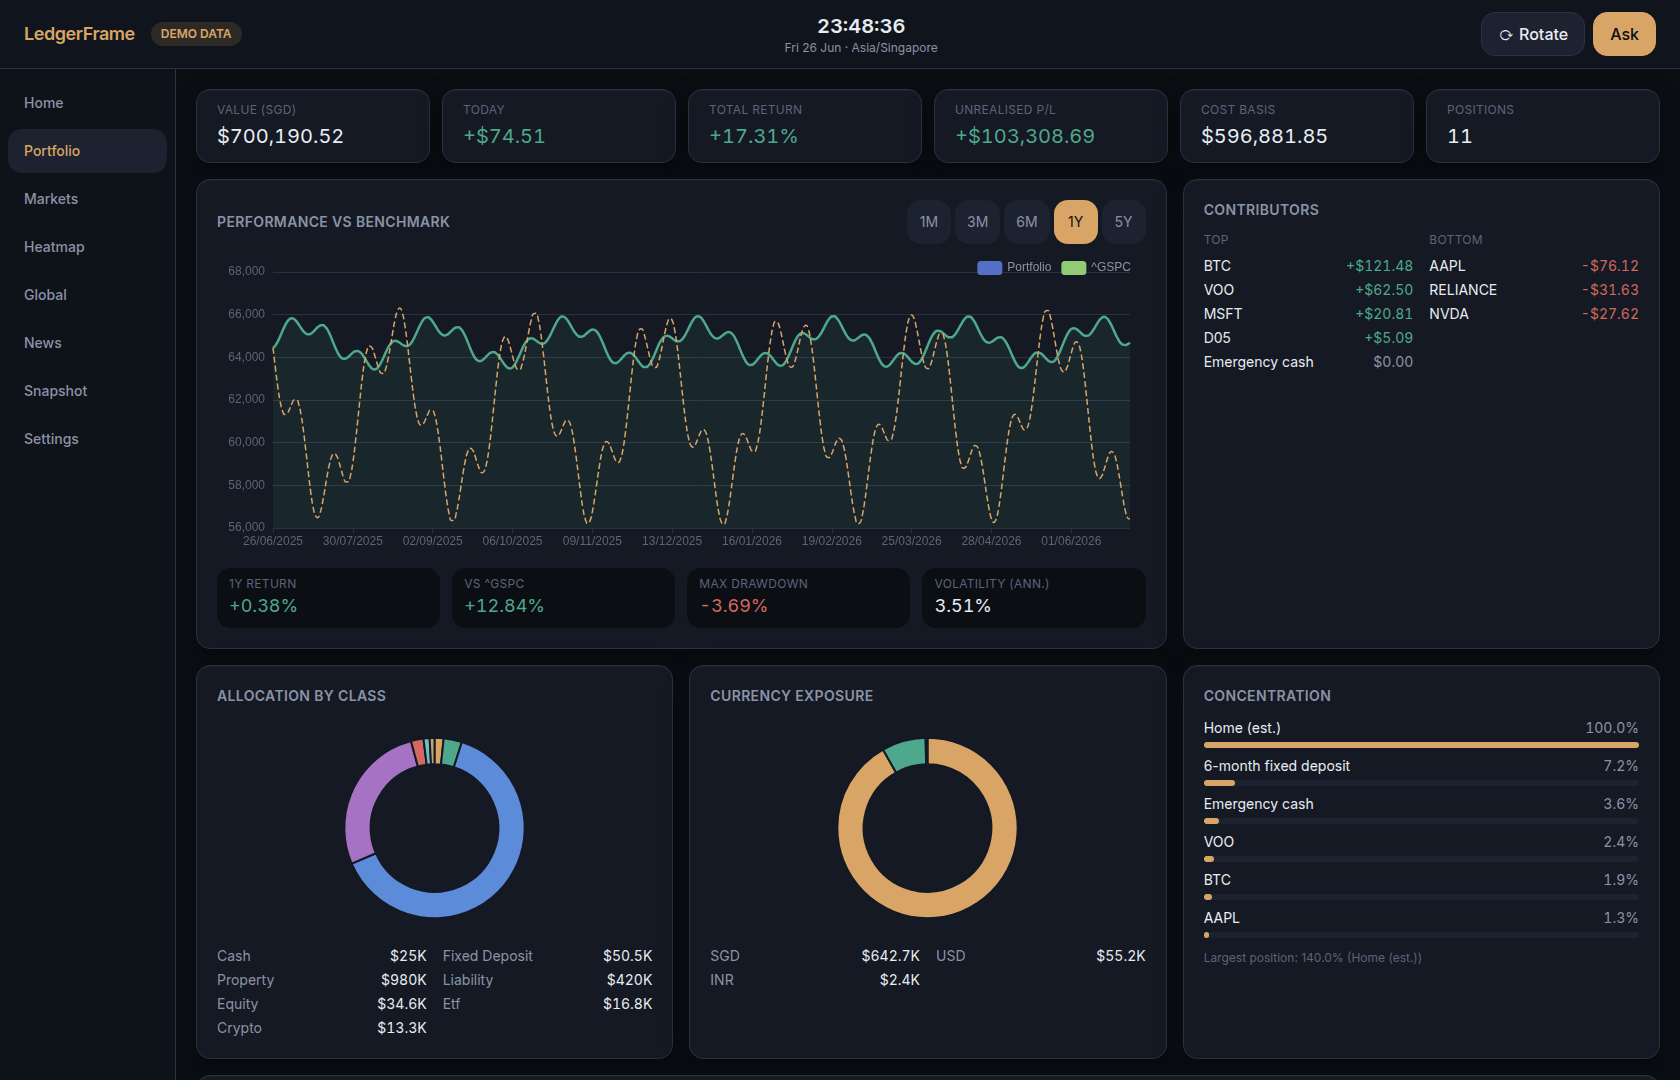
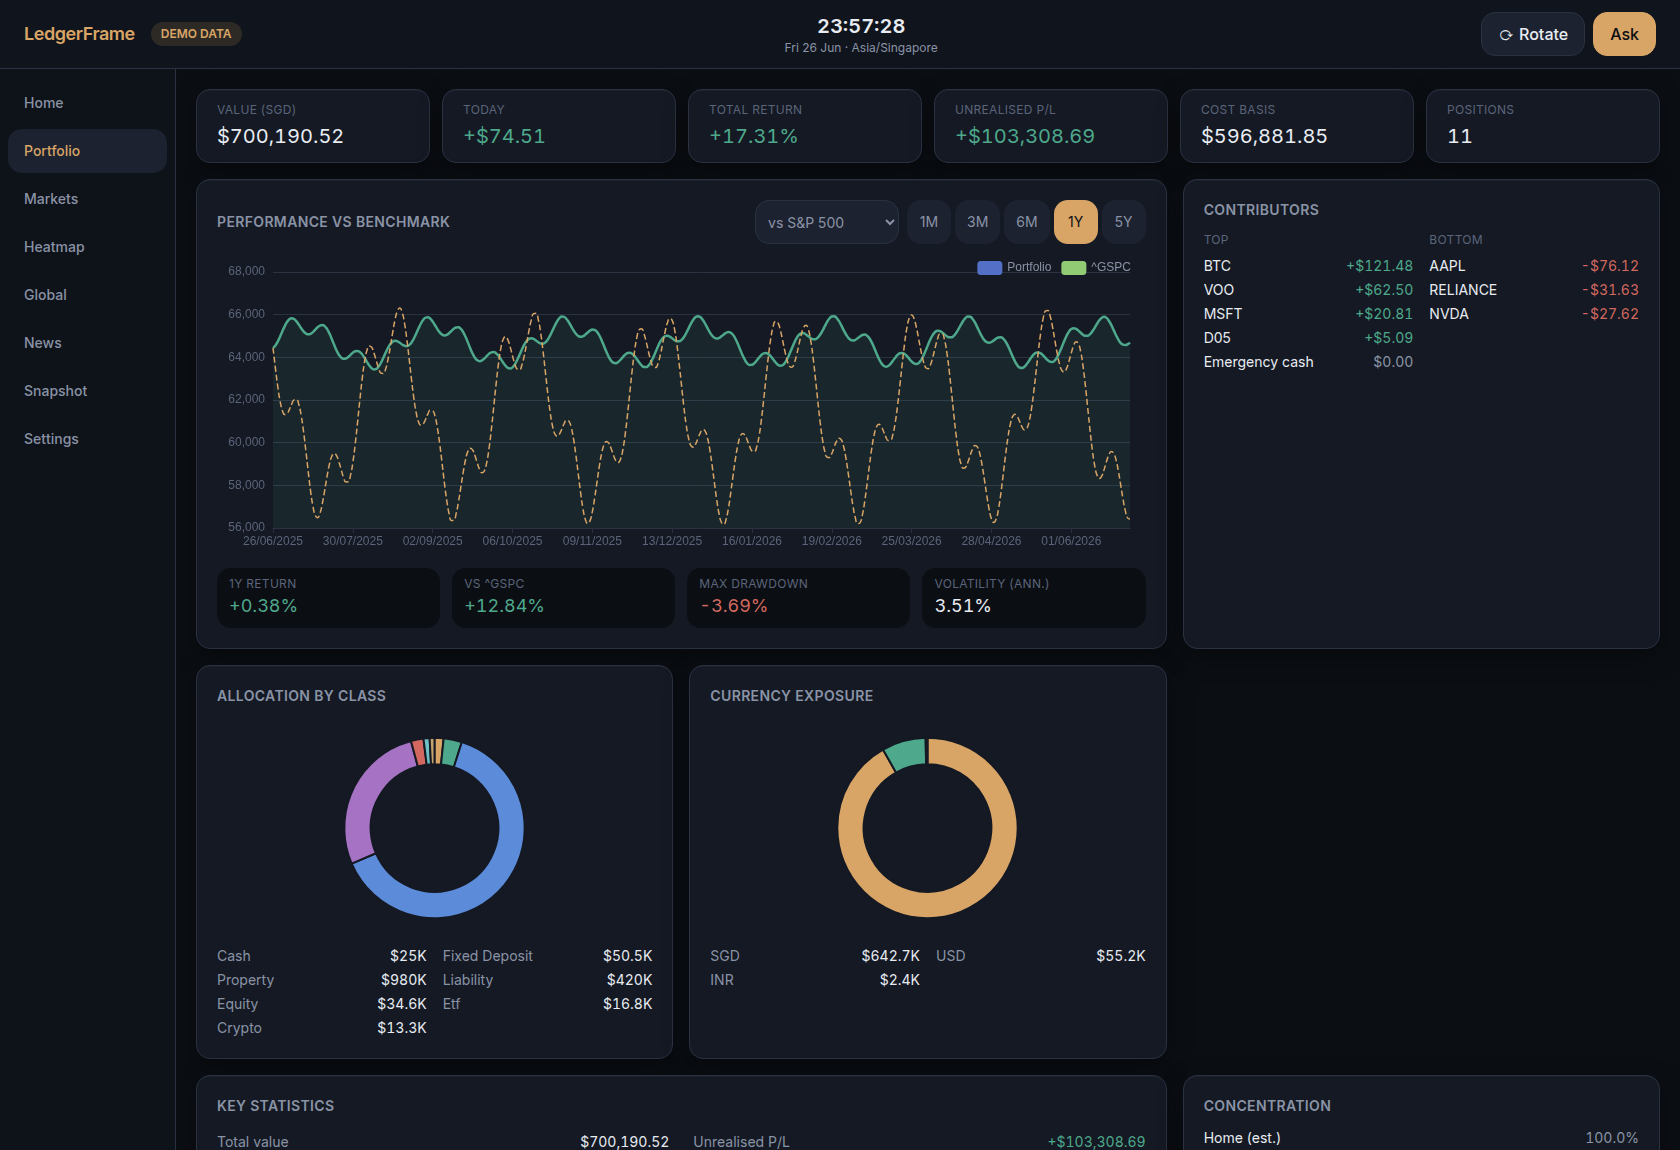
feat: benchmark picker + key-stats panel
- PerformancePanel gains a benchmark dropdown (S&P 500 / STI / VOO / World / Gold /
  Bitcoin); /portfolio/benchmarks lists them, /portfolio/performance honours it.
- New /portfolio/stats computes deterministic key metrics: realised P/L + income
  (from the ledger), income yield, total/1Y return, 1Y volatility, return/vol ratio,
  max drawdown, asset-class weights, and concentration (gross-asset denominator so
  values stay <=100%). No fabricated Sharpe/duration.
- KeyStatsPanel added to Home (via existing cards) and Portfolio.
- Tests for benchmarks/stats + gross-denominator concentration. 60 passing.

diff --git a/frontend/src/components/KeyStatsPanel.tsx b/frontend/src/components/KeyStatsPanel.tsx
@@ -1,0 +1,40 @@
+import { api } from "../lib/api";
+import { useApi } from "../hooks/useApi";
+import { Card } from "./ui";
+import { money, pct, signedMoney, toneClass } from "../lib/format";
+
+// Deterministic portfolio metrics (returns, income, risk, allocation weights,
+// concentration). Values are computed server-side; this only formats them.
+export function KeyStatsPanel({ className = "" }: { className?: string }) {
+  const { data } = useApi(api.stats, 60000);
+  const ccy = data?.base_currency ?? "SGD";
+
+  function fmt(m: { value: number | null; kind: string; signed?: boolean }): string {
+    if (m.value === null || m.value === undefined) return "—";
+    if (m.kind === "money") return m.signed ? signedMoney(m.value, ccy) : money(m.value, ccy);
+    if (m.kind === "pct") return m.signed ? pct(m.value) : `${m.value}%`;
+    if (m.kind === "ratio") return m.value.toFixed(2);
+    return String(m.value);
+  }
+  function tone(m: { value: number | null; signed?: boolean }): string {
+    return m.signed && m.value !== null ? toneClass(m.value) : "text-ink";
+  }
+
+  return (
+    <Card title="Key statistics" className={className}>
+      <dl className="grid grid-cols-2 gap-x-6 gap-y-2 text-sm">
+        {(data?.metrics ?? []).map((m) => (
+          <div key={m.label} className="flex justify-between border-b border-line/40 py-1">
+            <dt className="text-muted truncate mr-2" title={m.note ?? undefined}>{m.label}</dt>
+            <dd className={`tnum text-right ${tone(m)}`}>{fmt(m)}</dd>
+          </div>
+        ))}
+        {!data && <p className="text-muted col-span-2">Loading…</p>}
+      </dl>
+      <p className="text-xs text-faint mt-2">
+        Computed from your data. Weights/concentration use gross assets. No fabricated
+        Sharpe/duration — "return/volatility" is shown instead.
+      </p>
+    </Card>
+  );
+}

diff --git a/frontend/src/components/PerformancePanel.tsx b/frontend/src/components/PerformancePanel.tsx
@@ -17,7 +17,9 @@ const PERIODS = [
 // selector and a row of computed stats (return, vs-benchmark, drawdown, volatility).
 export function PerformancePanel({ height = 300, className = "" }: { height?: number; className?: string }) {
   const [p, setP] = useState(3); // 1Y
-  const perf = useApi(() => api.performance(PERIODS[p].days), 0, [p]);
+  const [benchmark, setBenchmark] = useState("^GSPC");
+  const benches = useApi(api.benchmarks, 0);
+  const perf = useApi(() => api.performance(PERIODS[p].days, benchmark), 0, [p, benchmark]);
   const d = perf.data;
   const stats = d?.stats;
 
@@ -26,16 +28,28 @@ export function PerformancePanel({ height = 300, className = "" }: { height?: nu
       title="Performance vs benchmark"
       className={className}
       action={
-        <div className="flex gap-1">
-          {PERIODS.map((per, i) => (
-            <button
-              key={per.label}
-              className={`touch px-3 py-1 rounded-card text-sm ${i === p ? "bg-accent text-base" : "bg-elevated text-muted hover:text-ink"}`}
-              onClick={() => setP(i)}
-            >
-              {per.label}
-            </button>
-          ))}
+        <div className="flex items-center gap-2">
+          <select
+            className="touch rounded-card bg-elevated border border-line text-sm px-2 text-muted"
+            value={benchmark}
+            onChange={(e) => setBenchmark(e.target.value)}
+            title="Benchmark"
+          >
+            {(benches.data?.benchmarks ?? [{ symbol: "^GSPC", label: "S&P 500" }]).map((b) => (
+              <option key={b.symbol} value={b.symbol}>vs {b.label}</option>
+            ))}
+          </select>
+          <div className="flex gap-1">
+            {PERIODS.map((per, i) => (
+              <button
+                key={per.label}
+                className={`touch px-3 py-1 rounded-card text-sm ${i === p ? "bg-accent text-base" : "bg-elevated text-muted hover:text-ink"}`}
+                onClick={() => setP(i)}
+              >
+                {per.label}
+              </button>
+            ))}
+          </div>
         </div>
       }
     >

diff --git a/frontend/src/lib/api.ts b/frontend/src/lib/api.ts
@@ -45,6 +45,11 @@ export const api = {
         worst_day_pct: number; start_value: number; end_value: number;
       };
     }>(`/api/v1/portfolio/performance?days=${days}&benchmark=${encodeURIComponent(benchmark)}`),
+  benchmarks: () => req<{ benchmarks: { symbol: string; label: string }[] }>("/api/v1/portfolio/benchmarks"),
+  stats: (benchmark = "^GSPC") =>
+    req<{ base_currency: string; metrics: { label: string; value: number | null; kind: string; signed?: boolean; note?: string | null }[] }>(
+      `/api/v1/portfolio/stats?benchmark=${encodeURIComponent(benchmark)}`,
+    ),
   marketsOverview: () =>
     req<{
       quotes: Quote[];

diff --git a/frontend/src/pages/Portfolio.tsx b/frontend/src/pages/Portfolio.tsx
@@ -5,6 +5,7 @@ import { useApi } from "../hooks/useApi";
 import { Card, ChangePill, DataBadge } from "../components/ui";
 import { Donut } from "../components/Chart";
 import { PerformancePanel } from "../components/PerformancePanel";
+import { KeyStatsPanel } from "../components/KeyStatsPanel";
 import { PortfolioEditor } from "../components/PortfolioEditor";
 import { money, pct, signedMoney, toneClass } from "../lib/format";
 
@@ -49,6 +50,8 @@ export default function Portfolio() {
           {allocCcy.length ? <Donut data={allocCcy} /> : <p className="text-muted">No holdings.</p>}
           <Legend items={allocCcy} ccy={ccy} />
         </Card>
+
+        <KeyStatsPanel className="col-span-12 lg:col-span-8" />
 
         <Card title="Concentration" className="col-span-12 lg:col-span-4">
           <Concentration holdings={holdings.data?.holdings ?? []} total={s?.total_value ?? 0} />

diff --git a/app/services/analytics.py b/app/services/analytics.py
@@ -20,10 +20,93 @@ from decimal import Decimal
 from sqlalchemy import select
 from sqlalchemy.ext.asyncio import AsyncSession
 
-from app.core.money import D, to_display
+from app.core.money import ZERO, D, money, to_display
 from app.models import AssetClass, Holding, Instrument
+from app.models import Transaction as Txn
 from app.providers.market import get_provider
 from app.services import fx
+from app.services.portfolio import compute_fifo, value_portfolio
+
+
+async def key_stats(session: AsyncSession, base_currency: str, benchmark: str = "^GSPC") -> dict:
+    """A panel of deterministic portfolio metrics.
+
+    Only computes what we can derive honestly from the data — no fabricated Sharpe
+    ratio or bond durations (we have no risk-free rate / instrument durations). The
+    return/volatility ratio is labelled as such, not as a true Sharpe.
+    """
+    from collections import defaultdict
+
+    val = await value_portfolio(session, base_currency)
+    total = val.total_value or D("1")
+    # Gross assets (exclude liabilities) — the right denominator for weights and
+    # concentration, so a large mortgage can't push a position above 100%.
+    gross = sum((h.market_value_base for h in val.holdings if h.market_value_base > 0), ZERO) or D("1")
+
+    # Realised P/L and income (dividends/interest) from the transaction ledger,
+    # converted to base currency at current FX.
+    txns = (await session.execute(select(Txn).where(Txn.instrument_id.isnot(None)))).scalars().all()
+    by_instr: dict[int, list[Txn]] = defaultdict(list)
+    for t in txns:
+        by_instr[t.instrument_id].append(t)
+    realised = ZERO
+    income = ZERO
+    for group in by_instr.values():
+        res = compute_fifo(group)
+        ccy = group[0].currency or base_currency
+        rate = await fx.get_rate(ccy, base_currency)
+        realised += res.realised_pl * rate
+        income += res.income * rate
+
+    # Allocation weights.
+    alloc = val.allocation("asset_class")
+
+    def weight(*cls: str) -> float:
+        return float(sum((alloc.get(c, ZERO) for c in cls), ZERO) / gross * 100)
+
+    cash_pct = weight("cash", "fixed_deposit")
+    equity_pct = weight("equity", "etf", "mutual_fund")
+    crypto_pct = weight("crypto")
+    alt_pct = weight("commodity", "property", "private")
+
+    # Concentration.
+    priced = sorted((h for h in val.holdings if h.market_value_base > 0),
+                    key=lambda h: h.market_value_base, reverse=True)
+    largest = priced[0] if priced else None
+    top5 = sum((h.market_value_base for h in priced[:5]), ZERO)
+
+    # 1Y risk/return metrics from the invested performance series.
+    perf = await performance_series(session, base_currency, 365, benchmark)
+    ps = perf.get("stats") or {}
+    vol = ps.get("volatility_pct") or 0.0
+    ret = ps.get("return_pct") or 0.0
+    ret_vol = round(ret / vol, 2) if vol else None
+
+    income_yield = float(income / total * 100) if total else 0.0
+
+    return {
+        "base_currency": base_currency,
+        "metrics": [
+            {"label": "Total value", "value": to_display(val.total_value), "kind": "money"},
+            {"label": "Unrealised P/L", "value": to_display(val.unrealised_pl), "kind": "money", "signed": True},
+            {"label": "Realised P/L", "value": to_display(money(realised)), "kind": "money", "signed": True},
+            {"label": "Income (div/int)", "value": to_display(money(income)), "kind": "money", "signed": True},
+            {"label": "Income yield", "value": round(income_yield, 2), "kind": "pct"},
+            {"label": "Total return", "value": to_display(val.total_return_pct), "kind": "pct", "signed": True},
+            {"label": "1Y return", "value": ret, "kind": "pct", "signed": True},
+            {"label": "1Y volatility", "value": vol, "kind": "pct"},
+            {"label": "Return / volatility", "value": ret_vol, "kind": "ratio"},
+            {"label": "Max drawdown (1Y)", "value": ps.get("max_drawdown_pct", 0.0), "kind": "pct", "signed": True},
+            {"label": "Cash & deposits", "value": round(cash_pct, 1), "kind": "pct"},
+            {"label": "Equities & ETFs", "value": round(equity_pct, 1), "kind": "pct"},
+            {"label": "Crypto", "value": round(crypto_pct, 1), "kind": "pct"},
+            {"label": "Alternatives", "value": round(alt_pct, 1), "kind": "pct"},
+            {"label": "Largest position", "value": (float(largest.market_value_base / gross * 100) if largest else 0.0), "kind": "pct",
+             "note": largest.label if largest else None},
+            {"label": "Top 5 concentration", "value": float(top5 / gross * 100), "kind": "pct"},
+            {"label": "Positions", "value": len(val.holdings), "kind": "count"},
+        ],
+    }
 
 
 def _carry_forward(dates: list[datetime], series: dict[datetime, Decimal]) -> list[Decimal]:

diff --git a/tests/integration/test_performance.py b/tests/integration/test_performance.py
@@ -19,3 +19,26 @@ async def test_performance_excludes_constant_manual_assets(app_client):
     d = (await app_client.get("/api/v1/portfolio/performance?days=365")).json()
     vals = [p["value"] for p in d["series"]]
     assert max(vals) != min(vals)
+
+
+async def test_benchmarks_endpoint(app_client):
+    r = await app_client.get("/api/v1/portfolio/benchmarks")
+    assert r.status_code == 200
+    syms = [b["symbol"] for b in r.json()["benchmarks"]]
+    assert "^GSPC" in syms
+
+
+async def test_key_stats_endpoint(app_client):
+    r = await app_client.get("/api/v1/portfolio/stats")
+    assert r.status_code == 200
+    metrics = {m["label"]: m for m in r.json()["metrics"]}
+    assert "Total value" in metrics and "1Y volatility" in metrics
+    # Concentration uses gross assets, so it must never exceed 100%.
+    assert metrics["Top 5 concentration"]["value"] <= 100.01
+    assert metrics["Largest position"]["value"] <= 100.01
+
+
+async def test_performance_respects_benchmark_param(app_client):
+    r = await app_client.get("/api/v1/portfolio/performance?days=90&benchmark=GLD")
+    assert r.status_code == 200
+    assert r.json()["benchmark_symbol"] == "GLD"

diff --git a/app/api/v1/routes/portfolio.py b/app/api/v1/routes/portfolio.py
@@ -85,6 +85,25 @@ async def portfolio_performance(
     return data
 
 
+# Benchmarks the picker offers (symbol -> label). All exist in the demo catalog.
+_BENCHMARKS = {
+    "^GSPC": "S&P 500", "^STI": "Straits Times", "VOO": "S&P 500 ETF",
+    "VWRA": "World Equity", "GLD": "Gold", "BTC": "Bitcoin",
+}
+
+
[email redacted]("/portfolio/benchmarks")
+async def list_benchmarks() -> dict:
+    return {"benchmarks": [{"symbol": s, "label": label} for s, label in _BENCHMARKS.items()]}
+
+
[email redacted]("/portfolio/stats")
+async def portfolio_stats(benchmark: str = "^GSPC", session: AsyncSession = Depends(get_db)) -> dict:
+    from app.services.analytics import key_stats
+
+    return await key_stats(session, get_settings().base_currency, benchmark)
+
+
 class TransactionIn(BaseModel):
     account_id: int | None = None
     symbol: str | None = None